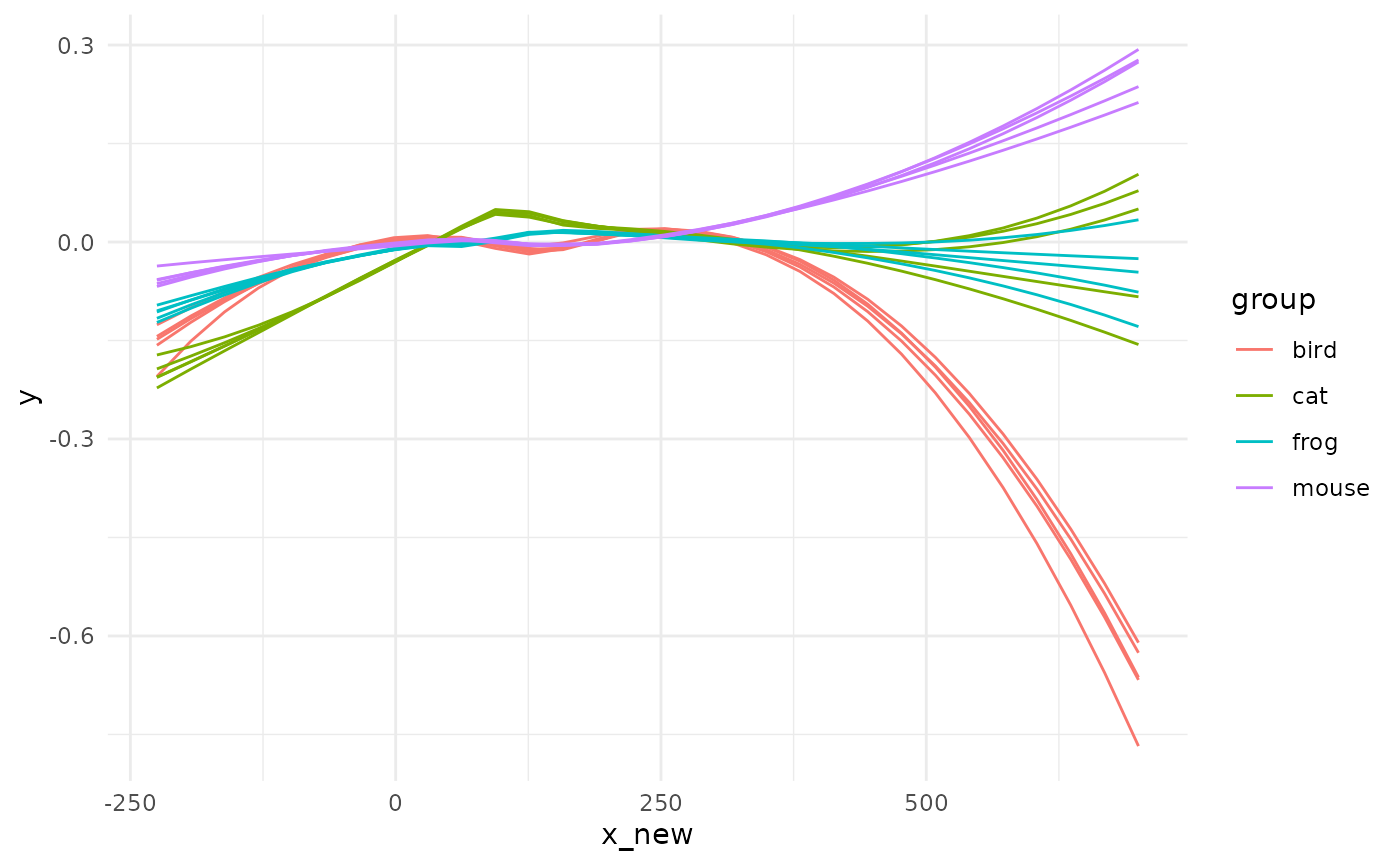
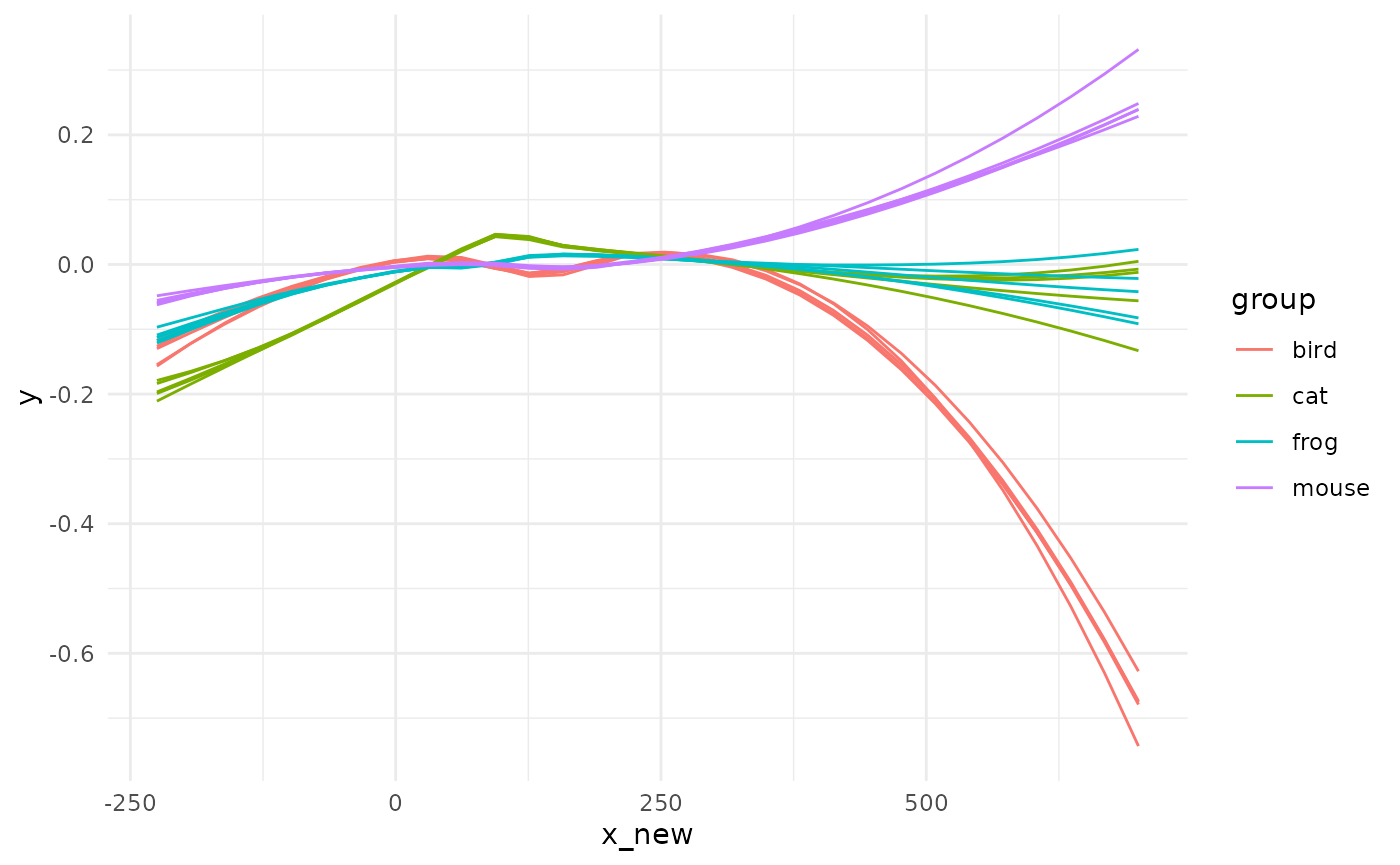
Built site for pataqu: 0.1.0@c8ba5c8

diff --git a/articles/intro.html b/articles/intro.html
@@ -87,6 +87,10 @@
 <p>We chiefly had in mind archaeological data which dating of remains are often temporally bounded between two certain events, named <em>terminus post/ante quem</em>, further abbreviated tpq and taq<a class="footnote-ref" tabindex="0" data-bs-toggle="popover" data-bs-content="&lt;p&gt;hence the package name which is also a delicate pun, in French&lt;/p&gt;"><sup>1</sup></a>. The tpq is the earliest date, the taq the latest.</p>
 <p>The <em>real</em> event may have happened anytime between these two boundaries with a flat, uniform, density of probability along the interval.</p>
 <p>We can also think of radiocarbon dating, which comes with a prediction and a confidence interval (say <span class="math inline">\(\mu ± \sigma\)</span>). But here the dating differ and the <em>real</em> event has a density of probability of gaussian nature with parameters <span class="math inline">\(\mu\)</span> and <span class="math inline">\(\sigma\)</span>.</p>
+</div>
+<div class="section level3">
+<h3 id="consequences-and-how-to-inspect-them">Consequences and how to inspect them<a class="anchor" aria-label="anchor" href="#consequences-and-how-to-inspect-them"></a>
+</h3>
 <p>Whatever the source of the uncertainty, the graphics, tests and overall stories we can obtain from data may well be affected. How robust your lovely trends to temporal uncertainties?</p>
 <p>pataqu aims at visualizing and testing this using permutations. This is not the only way to do it but in our view it has the merit to only use information contained in the data itself.</p>
 <p>The idea is:</p>
@@ -98,100 +102,88 @@
 </div>
 </div>
 <div class="section level2">
-<h2 id="presenting-the-problem">Presenting the problem<a class="anchor" aria-label="anchor" href="#presenting-the-problem"></a>
+<h2 id="case-study-taq-and-ptq">Case study: taq and ptq<a class="anchor" aria-label="anchor" href="#case-study-taq-and-ptq"></a>
 </h2>
+<p>We will load the package and also use <code>dplyr</code> and <code>ggplot2</code> from the <a href="tidyverse.org/">tidyverse</a>. Overall, if you <code><a href="https://tidyverse.tidyverse.org" class="external-link">library(tidyverse)</a></code> you should not need much more<a class="footnote-ref" tabindex="0" data-bs-toggle="popover" data-bs-content="&lt;p&gt;and typically you will not need to &lt;code&gt;dplyr::&lt;/code&gt; or &lt;code&gt;ggplot2::&lt;/code&gt; like what you have in function examples.&lt;/p&gt;"><sup>2</sup></a></p>
 <div class="sourceCode" id="cb1"><pre class="downlit sourceCode r">
-<code class="sourceCode R"><span class="kw"><a href="https://rdrr.io/r/base/library.html" class="external-link">library</a></span><span class="op">(</span><span class="va"><a href="https://github.com/vbonhomme/pataqu" class="external-link">pataqu</a></span><span class="op">)</span></code></pre></div>
-</div>
-<div class="section level2">
-<h2 id="example">Example<a class="anchor" aria-label="anchor" href="#example"></a>
-</h2>
-<p>Let’s say you measure a <code>value</code> of interest on archaeological animal remains. These remains are recovered from sites only dated with terminus ante and post quem. In these sites, you find several species and you would like to test :</p>
-<ol style="list-style-type: decimal">
-<li>The effect of these temporal uncertainties</li>
-<li>How they affect the temporal trend of each species</li>
-<li>When and between which pairs they differ</li>
-</ol>
-<p>We first load <code>pataqu</code> and then have a look to the <code>animals</code> dataset</p>
-<div class="sourceCode" id="cb2"><pre class="downlit sourceCode r">
-<code class="sourceCode R"><span class="kw"><a href="https://rdrr.io/r/base/library.html" class="external-link">library</a></span><span class="op">(</span><span class="va"><a href="https://github.com/vbonhomme/pataqu" class="external-link">pataqu</a></span><span class="op">)</span>
-<span class="fu"><a href="https://rdrr.io/r/utils/head.html" class="external-link">head</a></span><span class="op">(</span><span class="va">animals</span><span class="op">)</span>
-<span class="co">#&gt;   taxa   site      us  tpq taq       value</span>
-<span class="co">#&gt; 1 frog Alz-Br  A-B_FO -125 -50 -0.03521491</span>
-<span class="co">#&gt; 2 frog Ans-lM  A-M_12   50 700 -0.12260232</span>
-<span class="co">#&gt; 3 frog Ans-lM  A-M_12   50 700 -0.12933662</span>
-<span class="co">#&gt; 4 frog Ans-lM A-M_139  150 200  0.11962616</span>
-<span class="co">#&gt; 5 frog Ans-lM An-M_15   50 700  0.05752877</span>
-<span class="co">#&gt; 6 frog Ans-lM A-M_150   50 200  0.05275057</span>
-<span class="co"># We only show the first lines but you can View(animals)</span></code></pre></div>
-<p>Let’s visualize what happens if you decide to take the midpoint between your tpq and your taq and display temporal trend for each species:</p>
-<div class="sourceCode" id="cb3"><pre class="downlit sourceCode r">
 <code class="sourceCode R"><span class="kw"><a href="https://rdrr.io/r/base/library.html" class="external-link">library</a></span><span class="op">(</span><span class="va"><a href="https://dplyr.tidyverse.org" class="external-link">dplyr</a></span><span class="op">)</span>
-<span class="co">#&gt; </span>
-<span class="co">#&gt; Attaching package: 'dplyr'</span>
-<span class="co">#&gt; The following objects are masked from 'package:stats':</span>
-<span class="co">#&gt; </span>
-<span class="co">#&gt;     filter, lag</span>
-<span class="co">#&gt; The following objects are masked from 'package:base':</span>
-<span class="co">#&gt; </span>
-<span class="co">#&gt;     intersect, setdiff, setequal, union</span>
 <span class="kw"><a href="https://rdrr.io/r/base/library.html" class="external-link">library</a></span><span class="op">(</span><span class="va"><a href="https://ggplot2.tidyverse.org" class="external-link">ggplot2</a></span><span class="op">)</span>
+<span class="kw"><a href="https://rdrr.io/r/base/library.html" class="external-link">library</a></span><span class="op">(</span><span class="va"><a href="https://github.com/vbonhomme/pataqu" class="external-link">pataqu</a></span><span class="op">)</span></code></pre></div>
+<div class="section level3">
+<h3 id="animals-dataset">
+<code>animals</code> dataset<a class="anchor" aria-label="anchor" href="#animals-dataset"></a>
+</h3>
+<p>This dataset is made of real (and unpublished) data where researchers measured a <code>value</code> of interest on archaeological remains, in several <code>sites</code> (with <code>us</code> or stratigraphical units in them), dated with <code>tpq</code> and <code>taq</code>. The remains belonged to four <code>taxa</code>.</p>
+<div class="sourceCode" id="cb2"><pre class="downlit sourceCode r">
+<code class="sourceCode R"><span class="fu"><a href="https://rdrr.io/r/utils/head.html" class="external-link">head</a></span><span class="op">(</span><span class="va">animals</span><span class="op">)</span>
+<span class="co">#&gt; <span style="color: #949494;"># A tibble: 6 × 6</span></span>
+<span class="co">#&gt;   taxa  site   us        tpq   taq   value</span>
+<span class="co">#&gt;   <span style="color: #949494; font-style: italic;">&lt;fct&gt;</span> <span style="color: #949494; font-style: italic;">&lt;chr&gt;</span>  <span style="color: #949494; font-style: italic;">&lt;chr&gt;</span>   <span style="color: #949494; font-style: italic;">&lt;dbl&gt;</span> <span style="color: #949494; font-style: italic;">&lt;dbl&gt;</span>   <span style="color: #949494; font-style: italic;">&lt;dbl&gt;</span></span>
+<span class="co">#&gt; <span style="color: #BCBCBC;">1</span> frog  Alz-Br A-B_FO   -<span style="color: #BB0000;">125</span>   -<span style="color: #BB0000;">50</span> -<span style="color: #BB0000;">0.035</span><span style="color: #BB0000; text-decoration: underline;">2</span></span>
+<span class="co">#&gt; <span style="color: #BCBCBC;">2</span> frog  Ans-lM A-M_12     50   700 -<span style="color: #BB0000;">0.123</span> </span>
+<span class="co">#&gt; <span style="color: #BCBCBC;">3</span> frog  Ans-lM A-M_12     50   700 -<span style="color: #BB0000;">0.129</span> </span>
+<span class="co">#&gt; <span style="color: #BCBCBC;">4</span> frog  Ans-lM A-M_139   150   200  0.120 </span>
+<span class="co">#&gt; <span style="color: #BCBCBC;">5</span> frog  Ans-lM An-M_15    50   700  0.057<span style="text-decoration: underline;">5</span></span>
+<span class="co">#&gt; <span style="color: #BCBCBC;">6</span> frog  Ans-lM A-M_150    50   200  0.052<span style="text-decoration: underline;">8</span></span>
+<span class="co"># We only show the first lines but you can View(animals)</span></code></pre></div>
+<p>How would we treat that? We could decide to display the full interval and see what happens:</p>
+<div class="sourceCode" id="cb3"><pre class="downlit sourceCode r">
+<code class="sourceCode R"><span class="co"># pure cosmetics for lighter graphs</span>
+<span class="fu"><a href="https://ggplot2.tidyverse.org/reference/theme_get.html" class="external-link">theme_set</a></span><span class="op">(</span><span class="fu"><a href="https://ggplot2.tidyverse.org/reference/ggtheme.html" class="external-link">theme_minimal</a></span><span class="op">(</span><span class="op">)</span><span class="op">)</span>
 
-<span class="co"># create the mid point</span>
-<span class="va">animals_mid</span> <span class="op">&lt;-</span>  <span class="fu"><a href="https://dplyr.tidyverse.org/reference/mutate.html" class="external-link">mutate</a></span><span class="op">(</span><span class="va">animals</span>, x<span class="op">=</span><span class="op">(</span><span class="va">tpq</span> <span class="op">+</span> <span class="va">taq</span><span class="op">)</span><span class="op">/</span><span class="fl">2</span><span class="op">)</span>
-<span class="fu"><a href="https://rdrr.io/r/utils/head.html" class="external-link">head</a></span><span class="op">(</span><span class="va">animals_mid</span><span class="op">)</span>
-<span class="co">#&gt; <span style="color: #949494;"># A tibble: 6 × 7</span></span>
-<span class="co">#&gt;   taxa  site   us        tpq   taq   value     x</span>
-<span class="co">#&gt;   <span style="color: #949494; font-style: italic;">&lt;fct&gt;</span> <span style="color: #949494; font-style: italic;">&lt;chr&gt;</span>  <span style="color: #949494; font-style: italic;">&lt;chr&gt;</span>   <span style="color: #949494; font-style: italic;">&lt;dbl&gt;</span> <span style="color: #949494; font-style: italic;">&lt;dbl&gt;</span>   <span style="color: #949494; font-style: italic;">&lt;dbl&gt;</span> <span style="color: #949494; font-style: italic;">&lt;dbl&gt;</span></span>
-<span class="co">#&gt; <span style="color: #BCBCBC;">1</span> frog  Alz-Br A-B_FO   -<span style="color: #BB0000;">125</span>   -<span style="color: #BB0000;">50</span> -<span style="color: #BB0000;">0.035</span><span style="color: #BB0000; text-decoration: underline;">2</span> -<span style="color: #BB0000;">87.5</span></span>
-<span class="co">#&gt; <span style="color: #BCBCBC;">2</span> frog  Ans-lM A-M_12     50   700 -<span style="color: #BB0000;">0.123</span>  375  </span>
-<span class="co">#&gt; <span style="color: #BCBCBC;">3</span> frog  Ans-lM A-M_12     50   700 -<span style="color: #BB0000;">0.129</span>  375  </span>
-<span class="co">#&gt; <span style="color: #BCBCBC;">4</span> frog  Ans-lM A-M_139   150   200  0.120  175  </span>
-<span class="co">#&gt; <span style="color: #BCBCBC;">5</span> frog  Ans-lM An-M_15    50   700  0.057<span style="text-decoration: underline;">5</span> 375  </span>
-<span class="co">#&gt; <span style="color: #BCBCBC;">6</span> frog  Ans-lM A-M_150    50   200  0.052<span style="text-decoration: underline;">8</span> 125</span>
-
-<span class="co"># visualize with a loess</span>
-<span class="fu"><a href="https://ggplot2.tidyverse.org/reference/ggplot.html" class="external-link">ggplot</a></span><span class="op">(</span><span class="va">animals_mid</span><span class="op">)</span> <span class="op">+</span>
- <span class="fu"><a href="https://ggplot2.tidyverse.org/reference/aes.html" class="external-link">aes</a></span><span class="op">(</span>x<span class="op">=</span><span class="va">x</span>, y<span class="op">=</span><span class="va">value</span>, col<span class="op">=</span><span class="va">taxa</span><span class="op">)</span> <span class="op">+</span>
- <span class="fu"><a href="https://ggplot2.tidyverse.org/reference/geom_point.html" class="external-link">geom_point</a></span><span class="op">(</span>size<span class="op">=</span><span class="fl">0.1</span><span class="op">)</span> <span class="op">+</span>
- <span class="fu"><a href="https://ggplot2.tidyverse.org/reference/geom_smooth.html" class="external-link">geom_smooth</a></span><span class="op">(</span>method<span class="op">=</span><span class="st">"loess"</span>, formula<span class="op">=</span><span class="st">"y~x"</span>, se<span class="op">=</span><span class="cn">FALSE</span><span class="op">)</span> <span class="op">+</span>
- <span class="fu"><a href="https://ggplot2.tidyverse.org/reference/ggtheme.html" class="external-link">theme_minimal</a></span><span class="op">(</span><span class="op">)</span></code></pre></div>
-<p><img src="intro_files/figure-html/loading%20dependencies-1.png" width="700"></p>
-<p>What a mess! And still, we do not take into account uncertainties on dating, which is the reason we are all here today. A more realistic view would be something like:</p>
+<span class="va">animals</span> <span class="op"><a href="../reference/pipe.html">%&gt;%</a></span> <span class="fu"><a href="https://ggplot2.tidyverse.org/reference/ggplot.html" class="external-link">ggplot</a></span><span class="op">(</span><span class="op">)</span> <span class="op">+</span>
+ <span class="fu"><a href="https://ggplot2.tidyverse.org/reference/geom_errorbarh.html" class="external-link">geom_errorbarh</a></span><span class="op">(</span><span class="fu"><a href="https://ggplot2.tidyverse.org/reference/aes.html" class="external-link">aes</a></span><span class="op">(</span>xmin<span class="op">=</span><span class="va">tpq</span>, xmax<span class="op">=</span><span class="va">taq</span>, y<span class="op">=</span><span class="va">value</span>, col<span class="op">=</span><span class="va">taxa</span><span class="op">)</span>, size<span class="op">=</span><span class="fl">0.2</span>, alpha<span class="op">=</span><span class="fl">0.5</span><span class="op">)</span></code></pre></div>
+<p><img src="intro_files/figure-html/gg_errorh-1.png" width="700"></p>
+<p>What a mess! We could try to add a mid point and add a smoother on top of them.</p>
 <div class="sourceCode" id="cb4"><pre class="downlit sourceCode r">
-<code class="sourceCode R"><span class="fu"><a href="https://ggplot2.tidyverse.org/reference/ggplot.html" class="external-link">ggplot</a></span><span class="op">(</span><span class="va">animals_mid</span><span class="op">)</span> <span class="op">+</span>
- <span class="fu"><a href="https://ggplot2.tidyverse.org/reference/aes.html" class="external-link">aes</a></span><span class="op">(</span>x<span class="op">=</span><span class="va">x</span>, y<span class="op">=</span><span class="va">value</span>, col<span class="op">=</span><span class="va">taxa</span><span class="op">)</span> <span class="op">+</span>
- <span class="fu"><a href="https://ggplot2.tidyverse.org/reference/geom_errorbarh.html" class="external-link">geom_errorbarh</a></span><span class="op">(</span><span class="fu"><a href="https://ggplot2.tidyverse.org/reference/aes.html" class="external-link">aes</a></span><span class="op">(</span>xmin<span class="op">=</span><span class="va">tpq</span>, xmax<span class="op">=</span><span class="va">taq</span><span class="op">)</span><span class="op">)</span> <span class="op">+</span>
+<code class="sourceCode R"><span class="va">animals</span> <span class="op"><a href="../reference/pipe.html">%&gt;%</a></span> 
+  <span class="fu"><a href="https://dplyr.tidyverse.org/reference/mutate.html" class="external-link">mutate</a></span><span class="op">(</span>x_new<span class="op">=</span><span class="op">(</span><span class="va">tpq</span><span class="op">+</span><span class="va">taq</span><span class="op">)</span><span class="op">/</span><span class="fl">2</span><span class="op">)</span> <span class="op"><a href="../reference/pipe.html">%&gt;%</a></span> 
+  <span class="fu"><a href="https://ggplot2.tidyverse.org/reference/ggplot.html" class="external-link">ggplot</a></span><span class="op">(</span><span class="op">)</span> <span class="op">+</span>
+ <span class="fu"><a href="https://ggplot2.tidyverse.org/reference/aes.html" class="external-link">aes</a></span><span class="op">(</span>x<span class="op">=</span><span class="va">x_new</span>, y<span class="op">=</span><span class="va">value</span>, col<span class="op">=</span><span class="va">taxa</span><span class="op">)</span> <span class="op">+</span>
  <span class="fu"><a href="https://ggplot2.tidyverse.org/reference/geom_point.html" class="external-link">geom_point</a></span><span class="op">(</span>size<span class="op">=</span><span class="fl">0.1</span><span class="op">)</span> <span class="op">+</span>
- <span class="fu"><a href="https://ggplot2.tidyverse.org/reference/geom_smooth.html" class="external-link">geom_smooth</a></span><span class="op">(</span>method<span class="op">=</span><span class="st">"loess"</span>, formula<span class="op">=</span><span class="st">"y~x"</span>, se<span class="op">=</span><span class="cn">FALSE</span><span class="op">)</span> <span class="op">+</span>
- <span class="fu"><a href="https://ggplot2.tidyverse.org/reference/ggtheme.html" class="external-link">theme_minimal</a></span><span class="op">(</span><span class="op">)</span></code></pre></div>
-<p><img src="intro_files/figure-html/plot1-1.png" width="700"> Here comes pataqu.</p>
-<p>We will simulate 5 new datasets with randomized datations. The true dates can be anytime between ptq and taq. We use <code>quake_uniform</code>.</p>
+ <span class="fu"><a href="https://ggplot2.tidyverse.org/reference/geom_smooth.html" class="external-link">geom_smooth</a></span><span class="op">(</span>method<span class="op">=</span><span class="st">"loess"</span>, formula<span class="op">=</span><span class="st">"y~x"</span>, se<span class="op">=</span><span class="cn">FALSE</span><span class="op">)</span> <span class="op">-&gt;</span> <span class="va">gg_mid</span>
+<span class="va">gg_mid</span></code></pre></div>
+<p><img src="intro_files/figure-html/gg_mid1-1.png" width="700"> We now are able to see some trends but we lost the uncertainty on x in the meantime. The graph before may have also been the one below, with the same likelihood.</p>
+<p>We take animals and simply draw other <code>x_new</code> values, not on the midpoint, somewhere between the tpq and taq of each line. We use <code>set.seed</code> for the sake of replicability only.</p>
 <div class="sourceCode" id="cb5"><pre class="downlit sourceCode r">
+<code class="sourceCode R"><span class="fu"><a href="https://rdrr.io/r/base/Random.html" class="external-link">set.seed</a></span><span class="op">(</span><span class="fl">2329</span><span class="op">)</span>
+<span class="co"># lets draw new x values</span>
+<span class="va">animals2</span> <span class="op">&lt;-</span> <span class="va">animals</span> <span class="op"><a href="../reference/pipe.html">%&gt;%</a></span>
+    <span class="fu">dplyr</span><span class="fu">::</span><span class="fu"><a href="https://dplyr.tidyverse.org/reference/rowwise.html" class="external-link">rowwise</a></span><span class="op">(</span><span class="op">)</span> <span class="op"><a href="../reference/pipe.html">%&gt;%</a></span>
+    <span class="fu">dplyr</span><span class="fu">::</span><span class="fu"><a href="https://dplyr.tidyverse.org/reference/mutate.html" class="external-link">mutate</a></span><span class="op">(</span>x_new<span class="op">=</span><span class="fu">stats</span><span class="fu">::</span><span class="fu"><a href="https://rdrr.io/r/stats/Uniform.html" class="external-link">runif</a></span><span class="op">(</span>n<span class="op">=</span><span class="fl">1</span>, min<span class="op">=</span><span class="va">tpq</span>, max<span class="op">=</span><span class="va">taq</span><span class="op">)</span><span class="op">)</span> <span class="op"><a href="../reference/pipe.html">%&gt;%</a></span>
+    <span class="fu">dplyr</span><span class="fu">::</span><span class="fu"><a href="https://dplyr.tidyverse.org/reference/group_by.html" class="external-link">ungroup</a></span><span class="op">(</span><span class="op">)</span>
+<span class="co"># and redo gg_mid graph with this new tibble</span>
+<span class="va">gg_mid</span> <span class="op"><a href="https://ggplot2.tidyverse.org/reference/gg-add.html" class="external-link">%+%</a></span> <span class="va">animals2</span></code></pre></div>
+<p><img src="intro_files/figure-html/gg_mid_animals2-1.png" width="700"></p>
+<p>Same same but different.</p>
+<p>The code used above is exactly what <code>shake_uniform</code> is made of behind the curtain<a class="footnote-ref" tabindex="0" data-bs-toggle="popover" data-bs-content='&lt;p&gt;check by yourself and type &lt;code&gt;&lt;a href="../reference/shake.html"&gt;pataqu::shake_uniform&lt;/a&gt;&lt;/code&gt; (no brackets) in the console&lt;/p&gt;'><sup>3</sup></a>.</p>
+<p>pataqu generalizes this idea with a little decoration around this pattern.</p>
+<p>The mother function is We will simulate 5 new datasets with randomized datations. The true dates can be anytime between ptq and taq. We use <code>quake_uniform</code>.</p>
+<div class="sourceCode" id="cb6"><pre class="downlit sourceCode r">
 <code class="sourceCode R"><span class="va">a_q</span> <span class="op">&lt;-</span> <span class="va">animals</span> <span class="op"><a href="../reference/pipe.html">%&gt;%</a></span> 
   <span class="fu"><a href="../reference/quake_uniform.html">quake_uniform</a></span><span class="op">(</span><span class="va">tpq</span>, <span class="va">taq</span>, <span class="va">value</span>, k<span class="op">=</span><span class="fl">5</span>, group<span class="op">=</span><span class="va">taxa</span><span class="op">)</span>
 <span class="co">#&gt;  * working on a temporal sequence of 30 steps</span>
 <span class="co">#&gt;  * launching 5 permutations</span></code></pre></div>
 <p>Let’s have a look to the results:</p>
-<div class="sourceCode" id="cb6"><pre class="downlit sourceCode r">
+<div class="sourceCode" id="cb7"><pre class="downlit sourceCode r">
 <code class="sourceCode R"><span class="va">a_q</span>
 <span class="co">#&gt; <span style="color: #949494;"># A tibble: 600 × 4</span></span>
 <span class="co">#&gt;        k group   x_new        y</span>
 <span class="co">#&gt;    <span style="color: #949494; font-style: italic;">&lt;int&gt;</span> <span style="color: #949494; font-style: italic;">&lt;chr&gt;</span>   <span style="color: #949494; font-style: italic;">&lt;dbl&gt;</span>    <span style="color: #949494; font-style: italic;">&lt;dbl&gt;</span></span>
-<span class="co">#&gt; <span style="color: #BCBCBC;"> 1</span>     1 cat   -<span style="color: #BB0000;">225</span>    -<span style="color: #BB0000;">0.222</span>  </span>
-<span class="co">#&gt; <span style="color: #BCBCBC;"> 2</span>     1 cat   -<span style="color: #BB0000;">193.</span>   -<span style="color: #BB0000;">0.194</span>  </span>
-<span class="co">#&gt; <span style="color: #BCBCBC;"> 3</span>     1 cat   -<span style="color: #BB0000;">161.</span>   -<span style="color: #BB0000;">0.166</span>  </span>
-<span class="co">#&gt; <span style="color: #BCBCBC;"> 4</span>     1 cat   -<span style="color: #BB0000;">129.</span>   -<span style="color: #BB0000;">0.138</span>  </span>
-<span class="co">#&gt; <span style="color: #BCBCBC;"> 5</span>     1 cat    -<span style="color: #BB0000;">97.4</span>  -<span style="color: #BB0000;">0.111</span>  </span>
-<span class="co">#&gt; <span style="color: #BCBCBC;"> 6</span>     1 cat    -<span style="color: #BB0000;">65.5</span>  -<span style="color: #BB0000;">0.082</span><span style="color: #BB0000; text-decoration: underline;">8</span> </span>
-<span class="co">#&gt; <span style="color: #BCBCBC;"> 7</span>     1 cat    -<span style="color: #BB0000;">33.6</span>  -<span style="color: #BB0000;">0.055</span><span style="color: #BB0000; text-decoration: underline;">4</span> </span>
-<span class="co">#&gt; <span style="color: #BCBCBC;"> 8</span>     1 cat     -<span style="color: #BB0000;">1.72</span> -<span style="color: #BB0000;">0.029</span><span style="color: #BB0000; text-decoration: underline;">2</span> </span>
-<span class="co">#&gt; <span style="color: #BCBCBC;"> 9</span>     1 cat     30.2  -<span style="color: #BB0000;">0.004</span><span style="color: #BB0000; text-decoration: underline;">46</span></span>
-<span class="co">#&gt; <span style="color: #BCBCBC;">10</span>     1 cat     62.1   0.021<span style="text-decoration: underline;">2</span> </span>
+<span class="co">#&gt; <span style="color: #BCBCBC;"> 1</span>     1 cat   -<span style="color: #BB0000;">225</span>    -<span style="color: #BB0000;">0.184</span>  </span>
+<span class="co">#&gt; <span style="color: #BCBCBC;"> 2</span>     1 cat   -<span style="color: #BB0000;">193.</span>   -<span style="color: #BB0000;">0.167</span>  </span>
+<span class="co">#&gt; <span style="color: #BCBCBC;"> 3</span>     1 cat   -<span style="color: #BB0000;">161.</span>   -<span style="color: #BB0000;">0.148</span>  </span>
+<span class="co">#&gt; <span style="color: #BCBCBC;"> 4</span>     1 cat   -<span style="color: #BB0000;">129.</span>   -<span style="color: #BB0000;">0.128</span>  </span>
+<span class="co">#&gt; <span style="color: #BCBCBC;"> 5</span>     1 cat    -<span style="color: #BB0000;">97.4</span>  -<span style="color: #BB0000;">0.106</span>  </span>
+<span class="co">#&gt; <span style="color: #BCBCBC;"> 6</span>     1 cat    -<span style="color: #BB0000;">65.5</span>  -<span style="color: #BB0000;">0.082</span><span style="color: #BB0000; text-decoration: underline;">2</span> </span>
+<span class="co">#&gt; <span style="color: #BCBCBC;"> 7</span>     1 cat    -<span style="color: #BB0000;">33.6</span>  -<span style="color: #BB0000;">0.057</span><span style="color: #BB0000; text-decoration: underline;">1</span> </span>
+<span class="co">#&gt; <span style="color: #BCBCBC;"> 8</span>     1 cat     -<span style="color: #BB0000;">1.72</span> -<span style="color: #BB0000;">0.031</span><span style="color: #BB0000; text-decoration: underline;">0</span> </span>
+<span class="co">#&gt; <span style="color: #BCBCBC;"> 9</span>     1 cat     30.2  -<span style="color: #BB0000;">0.004</span><span style="color: #BB0000; text-decoration: underline;">12</span></span>
+<span class="co">#&gt; <span style="color: #BCBCBC;">10</span>     1 cat     62.1   0.022<span style="text-decoration: underline;">5</span> </span>
 <span class="co">#&gt; <span style="color: #949494;"># … with 590 more rows</span></span>
 <span class="fu"><a href="../reference/spaghetti.html">spaghetti</a></span><span class="op">(</span><span class="va">a_q</span><span class="op">)</span></code></pre></div>
 <p><img src="intro_files/figure-html/unnamed-chunk-1-1.png" width="700"> One can now test <em>globally</em> when patterns between taxa differ:</p>
-<div class="sourceCode" id="cb7"><pre class="downlit sourceCode r">
+<div class="sourceCode" id="cb8"><pre class="downlit sourceCode r">
 <code class="sourceCode R"><span class="va">res_global</span> <span class="op">&lt;-</span> <span class="va">a_q</span> <span class="op"><a href="../reference/pipe.html">%&gt;%</a></span> <span class="fu"><a href="../reference/synchrony.html">synchrony</a></span><span class="op">(</span><span class="op">)</span>
 <span class="co">#&gt;  * testing on 30 temporal slices</span>
 <span class="co">#&gt;  * testing pairwise differences using kruskal_p</span>
@@ -199,7 +191,7 @@
 <span class="co">#&gt; <span style="color: #949494;"># A tibble: 0 × 2</span></span>
 <span class="co">#&gt; <span style="color: #949494;"># … with 2 variables: x_new &lt;dbl&gt;, p &lt;dbl&gt;</span></span></code></pre></div>
 <p>But also test for pairwise differences:</p>
-<div class="sourceCode" id="cb8"><pre class="downlit sourceCode r">
+<div class="sourceCode" id="cb9"><pre class="downlit sourceCode r">
 <code class="sourceCode R"><span class="va">res</span> <span class="op">&lt;-</span> <span class="va">a_q</span> <span class="op"><a href="../reference/pipe.html">%&gt;%</a></span> <span class="fu"><a href="../reference/synchrony.html">synchrony_pw</a></span><span class="op">(</span><span class="op">)</span>
 <span class="co">#&gt;  * testing on 30 temporal slices</span>
 <span class="co">#&gt;  * testing global differences using wilcox_p</span>
@@ -207,18 +199,19 @@
 <span class="co">#&gt; <span style="color: #949494;"># A tibble: 6 × 3</span></span>
 <span class="co">#&gt;   x_new pw                 p</span>
 <span class="co">#&gt;   <span style="color: #949494; font-style: italic;">&lt;dbl&gt;</span> <span style="color: #949494; font-style: italic;">&lt;chr&gt;</span>          <span style="color: #949494; font-style: italic;">&lt;dbl&gt;</span></span>
-<span class="co">#&gt; <span style="color: #BCBCBC;">1</span>  -<span style="color: #BB0000;">225</span> bird ~ cat   0.031<span style="text-decoration: underline;">7</span> </span>
-<span class="co">#&gt; <span style="color: #BCBCBC;">2</span>  -<span style="color: #BB0000;">225</span> bird ~ frog  0.007<span style="text-decoration: underline;">94</span></span>
+<span class="co">#&gt; <span style="color: #BCBCBC;">1</span>  -<span style="color: #BB0000;">225</span> bird ~ cat   0.007<span style="text-decoration: underline;">94</span></span>
+<span class="co">#&gt; <span style="color: #BCBCBC;">2</span>  -<span style="color: #BB0000;">225</span> bird ~ frog  0.031<span style="text-decoration: underline;">7</span> </span>
 <span class="co">#&gt; <span style="color: #BCBCBC;">3</span>  -<span style="color: #BB0000;">225</span> bird ~ mouse 0.007<span style="text-decoration: underline;">94</span></span>
 <span class="co">#&gt; <span style="color: #BCBCBC;">4</span>  -<span style="color: #BB0000;">225</span> cat ~ frog   0.007<span style="text-decoration: underline;">94</span></span>
 <span class="co">#&gt; <span style="color: #BCBCBC;">5</span>  -<span style="color: #BB0000;">225</span> cat ~ mouse  0.007<span style="text-decoration: underline;">94</span></span>
 <span class="co">#&gt; <span style="color: #BCBCBC;">6</span>  -<span style="color: #BB0000;">225</span> frog ~ mouse 0.007<span style="text-decoration: underline;">94</span></span></code></pre></div>
 <p>And we can also check only those that differ:</p>
-<div class="sourceCode" id="cb9"><pre class="downlit sourceCode r">
+<div class="sourceCode" id="cb10"><pre class="downlit sourceCode r">
 <code class="sourceCode R"> <span class="va">res</span> <span class="op"><a href="../reference/pipe.html">%&gt;%</a></span> <span class="fu"><a href="https://dplyr.tidyverse.org/reference/filter.html" class="external-link">filter</a></span><span class="op">(</span><span class="va">p</span><span class="op">&lt;</span><span class="fl">0.0001</span><span class="op">)</span>
 <span class="co">#&gt; <span style="color: #949494;"># A tibble: 0 × 3</span></span>
 <span class="co">#&gt; <span style="color: #949494;"># … with 3 variables: x_new &lt;dbl&gt;, pw &lt;chr&gt;, p &lt;dbl&gt;</span></span></code></pre></div>
 <hr>
+</div>
 </div>
 
   </main><aside class="col-md-3"><nav id="toc"><h2>On this page</h2>
